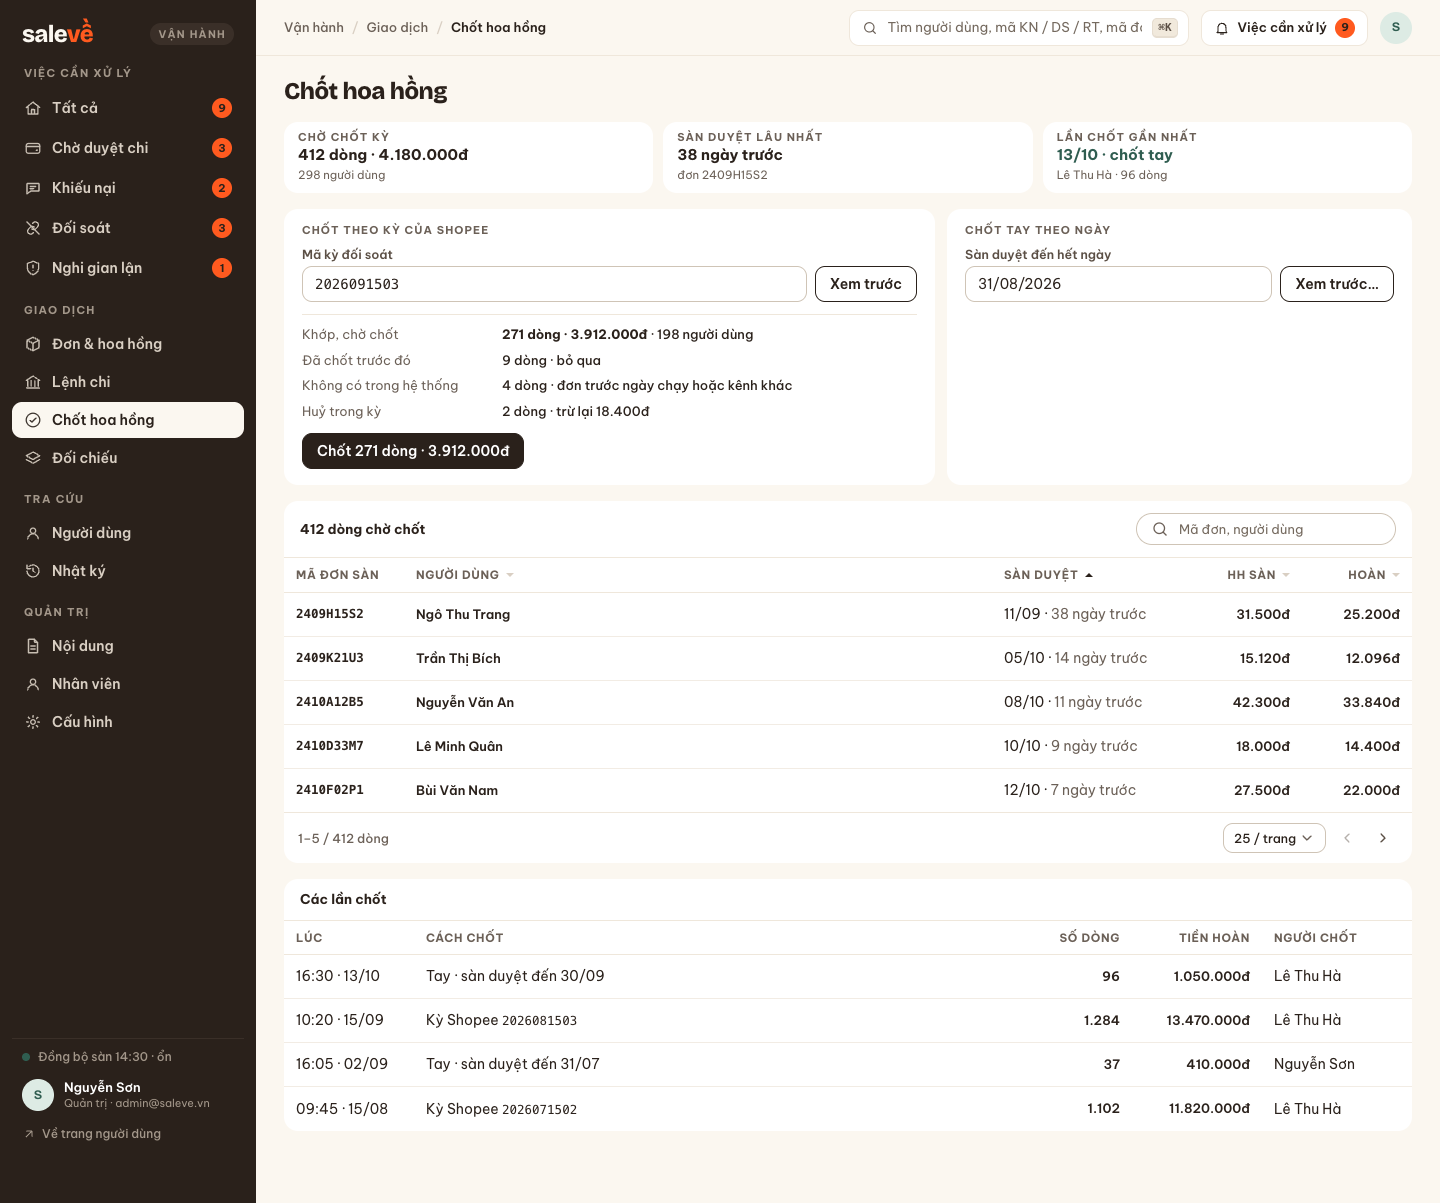
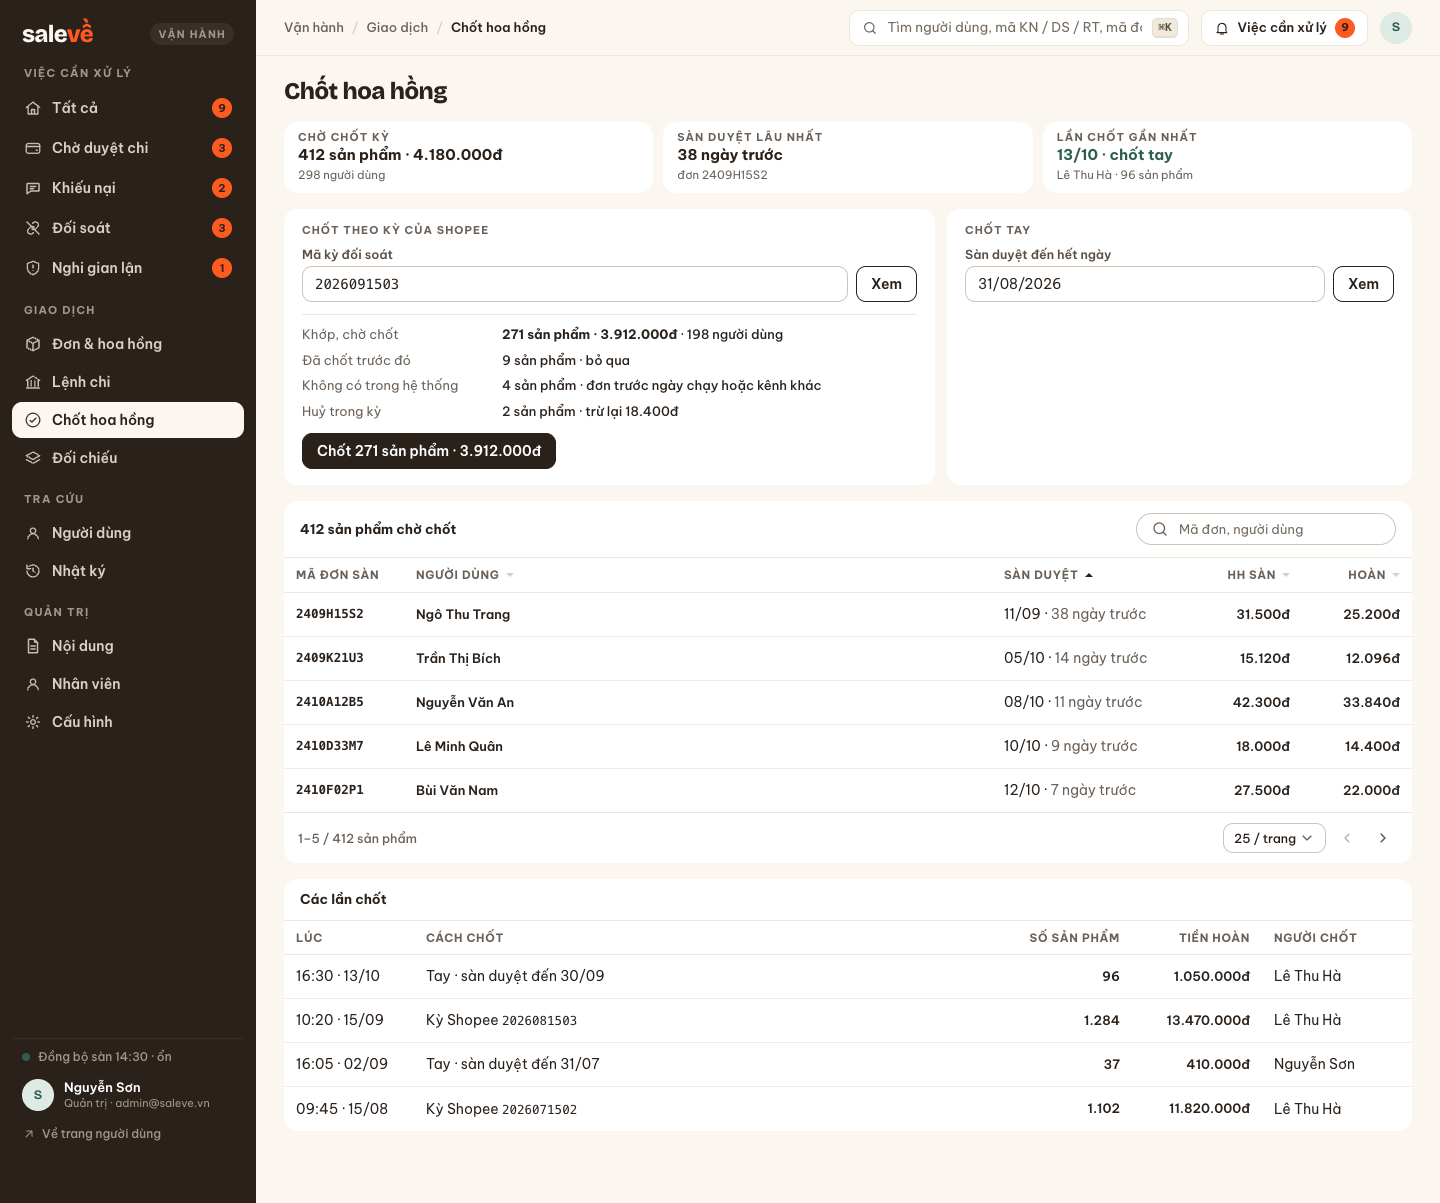
Prototype trang vận hành — bản duyệt giao diện (2026-10-24)

diff --git a/22-chot-hoa-hong.html b/22-chot-hoa-hong.html
@@ -72,9 +72,9 @@
   <div><h1>Chốt hoa hồng</h1></div>
 </div>
 <div class="health--row">
-  <div class="health__i"><div class="health__l">Chờ chốt kỳ</div><div class="health__v">412 dòng · 4.180.000đ</div><div class="health__s">298 người dùng</div></div>
+  <div class="health__i"><div class="health__l">Chờ chốt kỳ</div><div class="health__v">412 sản phẩm · 4.180.000đ</div><div class="health__s">298 người dùng</div></div>
   <div class="health__i"><div class="health__l">Sàn duyệt lâu nhất</div><div class="health__v">38 ngày trước</div><div class="health__s">đơn 2409H15S2</div></div>
-  <div class="health__i health__i--ok"><div class="health__l">Lần chốt gần nhất</div><div class="health__v">13/10 · chốt tay</div><div class="health__s">Lê Thu Hà · 96 dòng</div></div>
+  <div class="health__i health__i--ok"><div class="health__l">Lần chốt gần nhất</div><div class="health__v">13/10 · chốt tay</div><div class="health__s">Lê Thu Hà · 96 sản phẩm</div></div>
 </div>
 
 <div class="chot">
@@ -82,29 +82,29 @@
     <div class="sec__t">Chốt theo kỳ của Shopee</div>
     <div class="chot__f">
       <label class="field"><span class="field__l">Mã kỳ đối soát</span><input class="input mono" value="2026091503"></label>
-      <button class="btn btn--secondary" data-toast="Đã tải kỳ 2026091503 từ Shopee · 286 dòng">Xem trước</button>
+      <button class="btn btn--secondary" data-toast="Đã tải kỳ 2026091503 từ Shopee · 286 sản phẩm">Xem</button>
     </div>
     <div class="chot__sum">
       <dl class="facts">
-        <dt>Khớp, chờ chốt</dt><dd><b>271 dòng · 3.912.000đ</b> · 198 người dùng</dd>
-        <dt>Đã chốt trước đó</dt><dd>9 dòng · bỏ qua</dd>
-        <dt>Không có trong hệ thống</dt><dd>4 dòng · đơn trước ngày chạy hoặc kênh khác</dd>
-        <dt>Huỷ trong kỳ</dt><dd>2 dòng · trừ lại 18.400đ</dd>
+        <dt>Khớp, chờ chốt</dt><dd><b>271 sản phẩm · 3.912.000đ</b> · 198 người dùng</dd>
+        <dt>Đã chốt trước đó</dt><dd>9 sản phẩm · bỏ qua</dd>
+        <dt>Không có trong hệ thống</dt><dd>4 sản phẩm · đơn trước ngày chạy hoặc kênh khác</dd>
+        <dt>Huỷ trong kỳ</dt><dd>2 sản phẩm · trừ lại 18.400đ</dd>
       </dl>
-      <button class="btn btn--primary" data-open="#m-chot">Chốt 271 dòng · 3.912.000đ</button>
+      <button class="btn btn--primary" data-open="#m-chot">Chốt 271 sản phẩm · 3.912.000đ</button>
     </div>
   </div>
   <div class="card">
-    <div class="sec__t">Chốt tay theo ngày</div>
+    <div class="sec__t">Chốt tay</div>
     <div class="chot__f">
       <label class="field"><span class="field__l">Sàn duyệt đến hết ngày</span><input class="input" value="31/08/2026"></label>
-      <button class="btn btn--secondary" data-open="#m-chot-tay">Xem trước…</button>
+      <button class="btn btn--secondary" data-open="#m-chot-tay">Xem</button>
     </div>
   </div>
 </div>
 
 <div class="tbl-wrap">
-  <div class="tbl__hd"><b>412 dòng chờ chốt</b><label class="fsearch"><svg class="ic"><use href="#i-search"/></svg><input placeholder="Mã đơn, người dùng"></label></div>
+  <div class="tbl__hd"><b>412 sản phẩm chờ chốt</b><label class="fsearch"><svg class="ic"><use href="#i-search"/></svg><input placeholder="Mã đơn, người dùng"></label></div>
   <table class="tbl tbl--v2 tbl--compact">
     <colgroup><col style="width:120px"><col style="width:90px"><col><col style="width:200px"><col style="width:110px"><col style="width:110px"></colgroup>
     <thead class="sort"><tr><th>Mã đơn sàn</th><th class="th-plat">Sàn</th><th class="sort">Người dùng</th><th class="sort is-asc">Sàn duyệt</th><th class="num sort">HH sàn</th><th class="num sort">Hoàn</th></tr></thead>
@@ -116,14 +116,14 @@
       <tr><td class="code">2410F02P1</td><td class="plat">Shopee</td><td class="u">Bùi Văn Nam</td><td style="white-space:nowrap">12/10 · <span class="muted">7 ngày trước</span></td><td class="num">27.500đ</td><td class="num">22.000đ</td></tr>
     </tbody>
   </table>
-  <div class="pager"><span>1–5 / 412 dòng</span><div class="pager__r"><select class="input"><option>25 / trang</option><option>50 / trang</option></select><button class="btn btn--ghost btn--icon" disabled><svg class="ic"><use href="#i-chevron-left"/></svg></button><button class="btn btn--ghost btn--icon"><svg class="ic"><use href="#i-chevron-right"/></svg></button></div></div>
+  <div class="pager"><span>1–5 / 412 sản phẩm</span><div class="pager__r"><select class="input"><option>25 / trang</option><option>50 / trang</option></select><button class="btn btn--ghost btn--icon" disabled><svg class="ic"><use href="#i-chevron-left"/></svg></button><button class="btn btn--ghost btn--icon"><svg class="ic"><use href="#i-chevron-right"/></svg></button></div></div>
 </div>
 
 <div class="tbl-wrap">
   <div class="tbl__hd"><b>Các lần chốt</b></div>
   <table class="tbl tbl--v2 tbl--compact">
     <colgroup><col style="width:130px"><col><col style="width:110px"><col style="width:130px"><col style="width:150px"></colgroup>
-    <thead><tr><th>Lúc</th><th>Cách chốt</th><th class="num">Số dòng</th><th class="num">Tiền hoàn</th><th>Người chốt</th></tr></thead>
+    <thead><tr><th>Lúc</th><th>Cách chốt</th><th class="num">Số sản phẩm</th><th class="num">Tiền hoàn</th><th>Người chốt</th></tr></thead>
     <tbody>
       <tr><td>16:30 · 13/10</td><td>Tay · sàn duyệt đến 30/09</td><td class="num">96</td><td class="num">1.050.000đ</td><td>Lê Thu Hà</td></tr>
       <tr><td>10:20 · 15/09</td><td>Kỳ Shopee <span class="mono">2026081503</span></td><td class="num">1.284</td><td class="num">13.470.000đ</td><td>Lê Thu Hà</td></tr>
@@ -138,17 +138,17 @@
 </div>
 </div>
 <div class="modal-wrap" id="m-chot" role="dialog" aria-labelledby="m-chot-t"><div class="modal">
-  <h2 class="modal__t" id="m-chot-t">Chốt 271 dòng · 3.912.000đ cho 198 người dùng?</h2>
-  <p class="modal__d">Tiền chuyển từ Chờ sàn duyệt sang Có thể rút; 2 dòng huỷ trừ lại 18.400đ.</p>
+  <h2 class="modal__t" id="m-chot-t">Cộng 3.912.000đ vào ví của 198 người dùng?</h2>
+  <p class="modal__d">Tiền chuyển từ Chờ sàn duyệt sang Có thể rút; 2 sản phẩm huỷ trừ lại 18.400đ.</p>
   <div class="callout callout--warn small"><svg class="ic"><use href="#i-alert"/></svg><div>Người thực hiện <b data-role-name>Nguyễn Sơn</b> · 19/10/2026 · <b>không thể hoàn tác</b>.</div></div>
-  <div class="modal__ft"><button class="btn btn--ghost" data-close>Huỷ</button><button class="btn btn--primary" data-toast="Đã chốt kỳ 2026091503 · 271 dòng · 3.912.000đ · ghi nhật ký">Chốt 3.912.000đ</button></div>
+  <div class="modal__ft"><button class="btn btn--ghost" data-close>Huỷ</button><button class="btn btn--primary" data-toast="Đã chốt kỳ 2026091503 · 271 sản phẩm · 3.912.000đ · ghi nhật ký">Chốt 3.912.000đ</button></div>
 </div></div>
 <div class="modal-wrap" id="m-chot-tay" role="dialog" aria-labelledby="m-chot-tay-t"><div class="modal">
-  <h2 class="modal__t" id="m-chot-tay-t">Chốt tay 37 dòng · 410.000đ?</h2>
-  <p class="modal__d">Các dòng sàn duyệt đến hết 31/08/2026 chuyển sang Có thể rút.</p>
+  <h2 class="modal__t" id="m-chot-tay-t">Cộng 410.000đ vào ví của 29 người dùng?</h2>
+  <p class="modal__d">Các sản phẩm sàn duyệt đến hết 31/08/2026 chuyển sang Có thể rút.</p>
   <label class="field"><span class="field__l">Lý do <em>*</em></span><textarea class="input" data-min="10" placeholder="Vd: Shopee chưa công bố mã kỳ, đã đối chiếu tiền về tài khoản…"></textarea><div class="counter"></div></label>
   <div class="callout callout--warn small"><svg class="ic"><use href="#i-alert"/></svg><div>Người thực hiện <b data-role-name>Nguyễn Sơn</b> · 19/10/2026 · <b>không thể hoàn tác</b>.</div></div>
-  <div class="modal__ft"><button class="btn btn--ghost" data-close>Huỷ</button><button class="btn btn--primary" data-toast="Đã chốt tay 37 dòng · 410.000đ · ghi nhật ký">Chốt 410.000đ</button></div>
+  <div class="modal__ft"><button class="btn btn--ghost" data-close>Huỷ</button><button class="btn btn--primary" data-toast="Đã chốt tay 37 sản phẩm · 410.000đ · ghi nhật ký">Chốt 410.000đ</button></div>
 </div></div>
 <script src="admin.js"></script>
 <script>

diff --git a/13-ho-so-nguoi-dung.html b/13-ho-so-nguoi-dung.html
@@ -94,7 +94,7 @@
     <div class="row row--between"><div class="sec__t">Số dư ví</div><span class="small muted">cập nhật 09:40 hôm nay · </span></div>
     <div class="wallet3 wallet3--full">
       <div class="wallet3__i"><div class="wallet3__l">Chờ sàn duyệt</div><div class="wallet3__v">485.612đ</div><div class="wallet3__s">sàn chưa duyệt</div></div>
-      <div class="wallet3__i wallet3__i--avail"><div class="wallet3__l">Có thể rút</div><div class="wallet3__v">1.240.000đ</div><div class="wallet3__s">có thể rút ngay</div></div>
+      <div class="wallet3__i wallet3__i--avail"><div class="wallet3__l">Có thể rút</div><div class="wallet3__v">1.240.000đ</div></div>
     </div>
     <div class="row row--between small" style="padding:0 4px"><span class="muted">Đang giữ cho lệnh rút · không tính vào Có thể rút</span><b>1.200.000đ · <a class="link" href="03-ho-so-lenh-chi.html">RT-2720</a></b></div>
   </div>

diff --git a/02-hop-viec-duyet-chi.html b/02-hop-viec-duyet-chi.html
@@ -224,7 +224,7 @@ col.c-st{width:auto}
 
 <div class="modal-wrap" id="m-tu-choi" role="dialog" aria-labelledby="m-tu-choi-t"><div class="modal modal--danger">
   <h2 class="modal__t" id="m-tu-choi-t">Từ chối lệnh đang chọn?</h2>
-  <p class="modal__d">Tiền trả lại phần Có thể rút ngay.</p>
+  <p class="modal__d">Tiền trả lại phần Có thể rút.</p>
   <dl class="kv kv--tight"><dt>Lệnh</dt><dd><span class="code">RT-2715</span> · 1.500.000đ · Trần Thị Bích</dd></dl>
   <div class="field"><span class="field__l">Mã lý do <em>*</em></span>
     <div class="reason">
